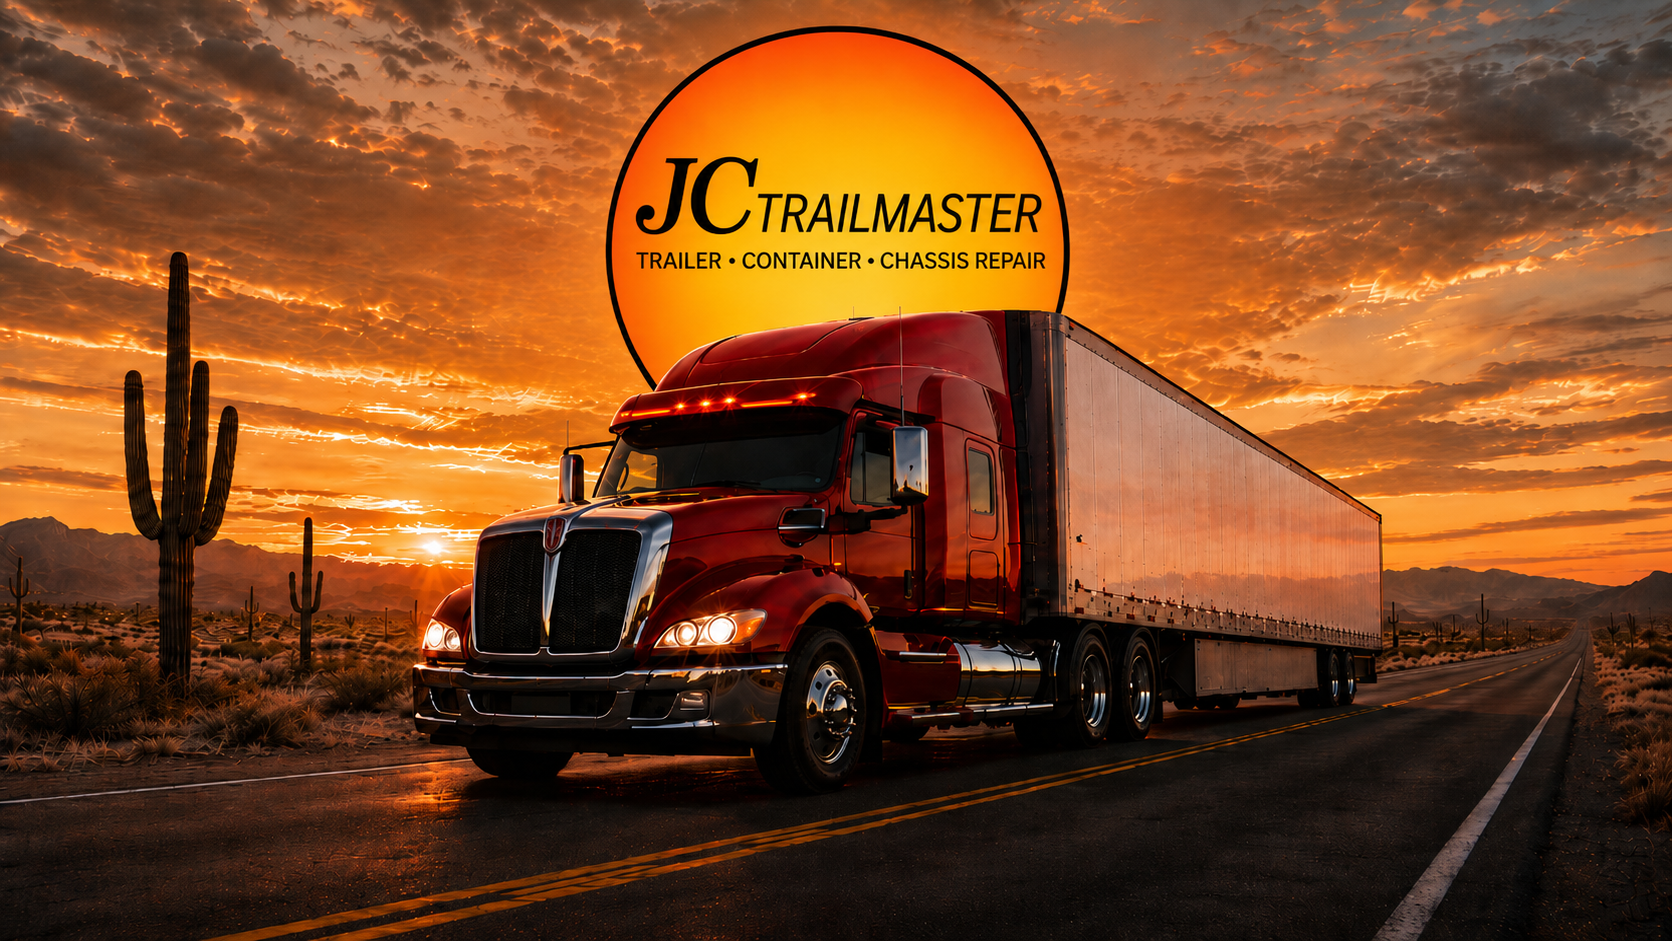
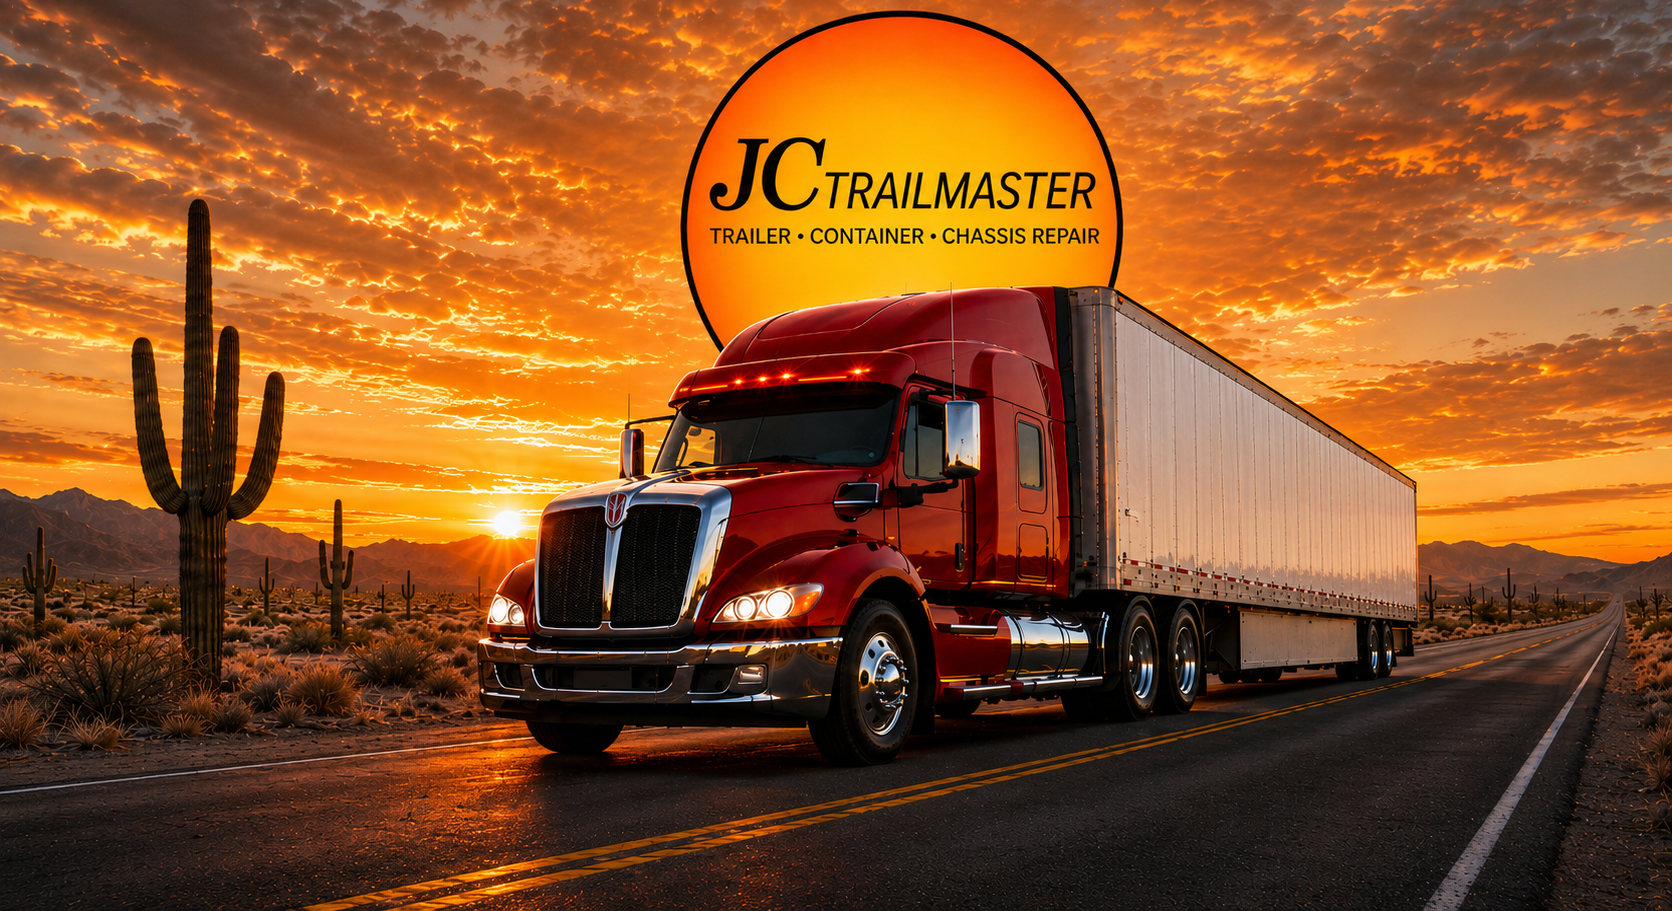
Update hero to final approved render, thicken header bar
- Replace the hero with the final approved render (1672x911). It was
  regenerated fresh rather than edited again, which cleared the softness that
  had built up across successive edit passes of the same file, and it is
  cropped so the badge sits flush against the header with the whole truck in
  frame. Home.jsx aspect ratio matches the new crop exactly, so the frame
  shows as cut with no background-position offset.
- Increase the header bar from 94px to 106px (+12.8%) for breathing room
  around the logo. The logo itself is unchanged at 78px.
- Delete the obsolete hero.jpg. Nothing referenced it and keeping several
  stale "hero" files around only creates ambiguity.

diff --git a/src/pages/Home.jsx b/src/pages/Home.jsx
@@ -76,14 +76,12 @@ export default function Home() {
   return (
     <>
       {/* HERO — image carries the JC Trailmaster wordmark baked in; headline sits below it.
-          From md up, the box is aspect-ratio-locked to the source image's exact proportions
-          (1672x941) with NO height cap, so bg-cover never has to crop the top/bottom at any
-          desktop width — a capped height here forces a wider-than-image box past that cap,
-          which crops the sky above the logo and the road below the truck. Mobile/sm keep fixed
-          heights — narrow portrait viewports already center-crop the sides, not top/bottom. */}
+          The source (1672x911) is already cropped so the badge sits flush at the top edge, so
+          from md up the box is locked to that exact aspect and the whole frame shows as cut —
+          no bg-position offset needed. Mobile/sm keep fixed heights and centre-crop the sides. */}
       <section className="bg-jc-black">
         <div
-          className="relative w-full h-[420px] sm:h-[520px] md:h-auto md:aspect-[1672/941] bg-cover bg-center"
+          className="relative w-full h-[420px] sm:h-[520px] md:h-auto md:aspect-[1672/911] bg-cover bg-center"
           style={bgImage("/images/trailer-chassis-repair-atlanta-jc-trailmaster-hero.png")}
           role="img"
           aria-label="JC Trailmaster semi-truck and trailer at sunset"

diff --git a/src/components/Header.jsx b/src/components/Header.jsx
@@ -101,7 +101,7 @@ export default function Header() {
 
   return (
     <header className="sticky top-0 z-50 bg-jc-black/95 backdrop-blur border-b border-white/10">
-      <div className="mx-auto flex max-w-7xl items-center justify-between gap-4 px-4 py-2 lg:px-8">
+      <div className="mx-auto flex max-w-7xl items-center justify-between gap-4 px-4 py-3.5 lg:px-8">
         <NavLink to="/" className="flex items-center gap-3 shrink-0">
           {/* Complete logo artwork, uncropped — object-contain + w-auto so the
               circle and truck keep their natural 1448x1086 proportions. */}
